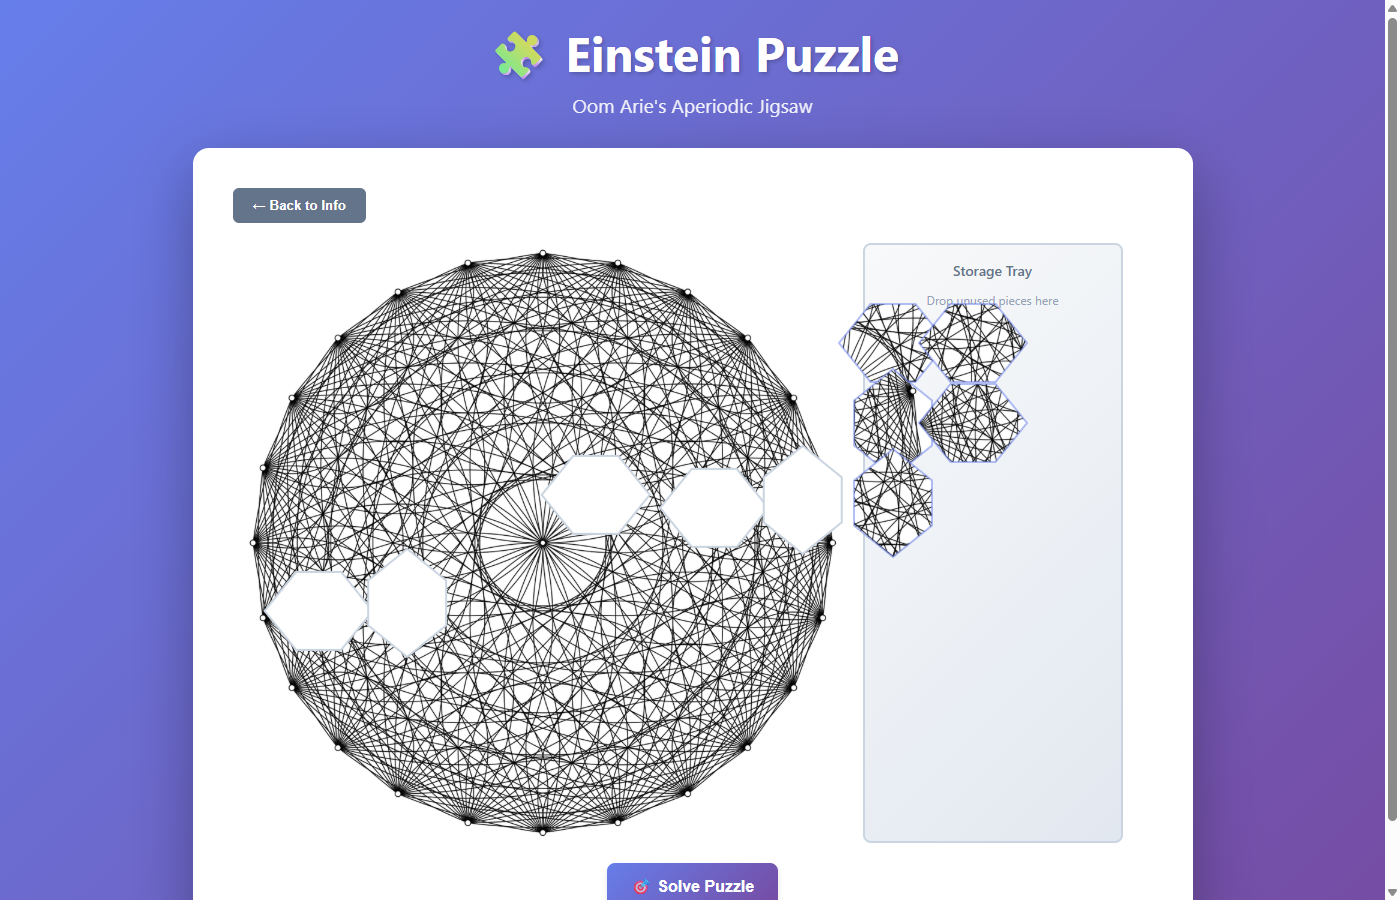
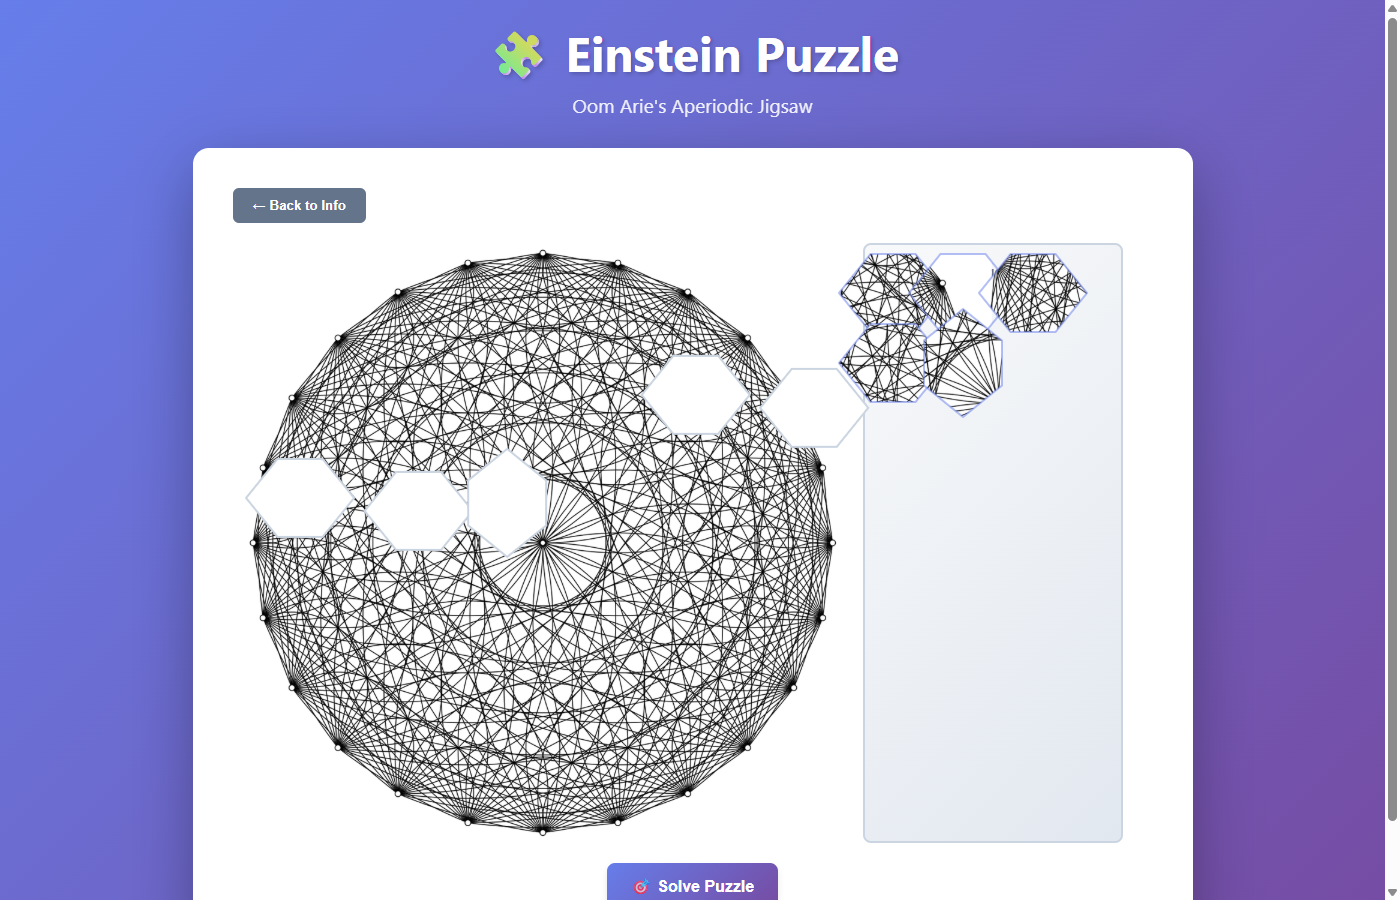
Add difficulty slider: User can choose 1-20 missing pieces
New features:
- Difficulty slider on start screen (1-20 pieces)
- Live counter shows selected number
- Pieces arranged in 3-column grid in tray
- Automatically selects consecutive pieces from middle area

UX improvements:
- Clear labels: Easy (1) to Hard (20)
- Slider styled with purple accent color
- Pieces fit better in tray with tighter grid (70px spacing)

Technical:
- Pass numMissingPieces prop from App to PuzzleBoard
- Dynamic calculation of missing piece indices
- Responsive tray layout adapts to piece count

Changed region(s): [[0.1843, 0.28, 0.7986, 0.7467]]

diff --git a/src/App.tsx b/src/App.tsx
@@ -9,6 +9,7 @@ import './App.css';
 function App() {
   const [gameState, setGameState] = useState<'start' | 'playing'>('start');
   const [tilingMode, setTilingMode] = useState<'hat' | 'grid'>('hat');
+  const [numPieces, setNumPieces] = useState<number>(5);
 
   const config: PuzzleConfig = {
     imageUrl: '/oom-arie-circle.png',
@@ -134,6 +135,28 @@ function App() {
                 </label>
               </div>
 
+              <div className="difficulty-selector" style={{ marginTop: '24px' }}>
+                <h3>Difficulty Level</h3>
+                <label style={{ display: 'flex', flexDirection: 'column', gap: '12px' }}>
+                  <div style={{ display: 'flex', justifyContent: 'space-between', alignItems: 'center' }}>
+                    <span>Number of missing pieces:</span>
+                    <strong style={{ fontSize: '18px', color: '#667eea' }}>{numPieces}</strong>
+                  </div>
+                  <input
+                    type="range"
+                    min="1"
+                    max="20"
+                    value={numPieces}
+                    onChange={(e) => setNumPieces(Number(e.target.value))}
+                    style={{ width: '100%' }}
+                  />
+                  <div style={{ display: 'flex', justifyContent: 'space-between', fontSize: '12px', color: '#94a3b8' }}>
+                    <span>Easy (1)</span>
+                    <span>Hard (20)</span>
+                  </div>
+                </label>
+              </div>
+
               <button onClick={startGame} className="primary-button">
                 Start Puzzle
               </button>
@@ -146,7 +169,7 @@ function App() {
             <button onClick={resetGame} className="back-button">
               ← Back to Info
             </button>
-            <PuzzleBoard config={config} pieces={pieces} />
+            <PuzzleBoard config={config} pieces={pieces} numMissingPieces={numPieces} />
           </div>
         )}
       </div>

diff --git a/src/components/PuzzleBoard.tsx b/src/components/PuzzleBoard.tsx
@@ -4,27 +4,31 @@ import type { PuzzlePiece, PuzzleConfig } from '../types';
 interface PuzzleBoardProps {
   config: PuzzleConfig;
   pieces: PuzzlePiece[];
+  numMissingPieces: number;
 }
 
-export function PuzzleBoard({ config, pieces: initialPieces }: PuzzleBoardProps) {
+export function PuzzleBoard({ config, pieces: initialPieces, numMissingPieces }: PuzzleBoardProps) {
   const containerRef = useRef<HTMLDivElement>(null);
   const [pieces, setPieces] = useState(() => {
-    // For now: put just 1 piece in the tray, rest are correctly placed
     const trayX = config.canvasSize + 50;
-    const trayY = 100;
+    const trayY = 50;
+
+    // Select pieces from the middle area (more likely to be on the circle)
+    // Start from index 10 and take numMissingPieces consecutive pieces
+    const startIndex = Math.max(0, Math.min(10, initialPieces.length - numMissingPieces));
+    const missingPieceIndices = Array.from(
+      { length: numMissingPieces },
+      (_, i) => startIndex + i
+    );
 
     return initialPieces.map((piece, index) => {
-      // Remove 5 pieces from the middle area (indices 15-19)
-      // These are more likely to be on the interesting part of the circle
-      const missingPieceIndices = [15, 16, 17, 18, 19];
-
       if (missingPieceIndices.includes(index)) {
-        // Place in tray, stacked vertically
+        // Place in tray, in a grid layout (3 columns)
         const trayPosition = missingPieceIndices.indexOf(index);
         return {
           ...piece,
-          currentX: trayX + (trayPosition % 2) * 80,
-          currentY: trayY + Math.floor(trayPosition / 2) * 80,
+          currentX: trayX + (trayPosition % 3) * 70,
+          currentY: trayY + Math.floor(trayPosition / 3) * 70,
           isPlaced: false,
         };
       } else {
